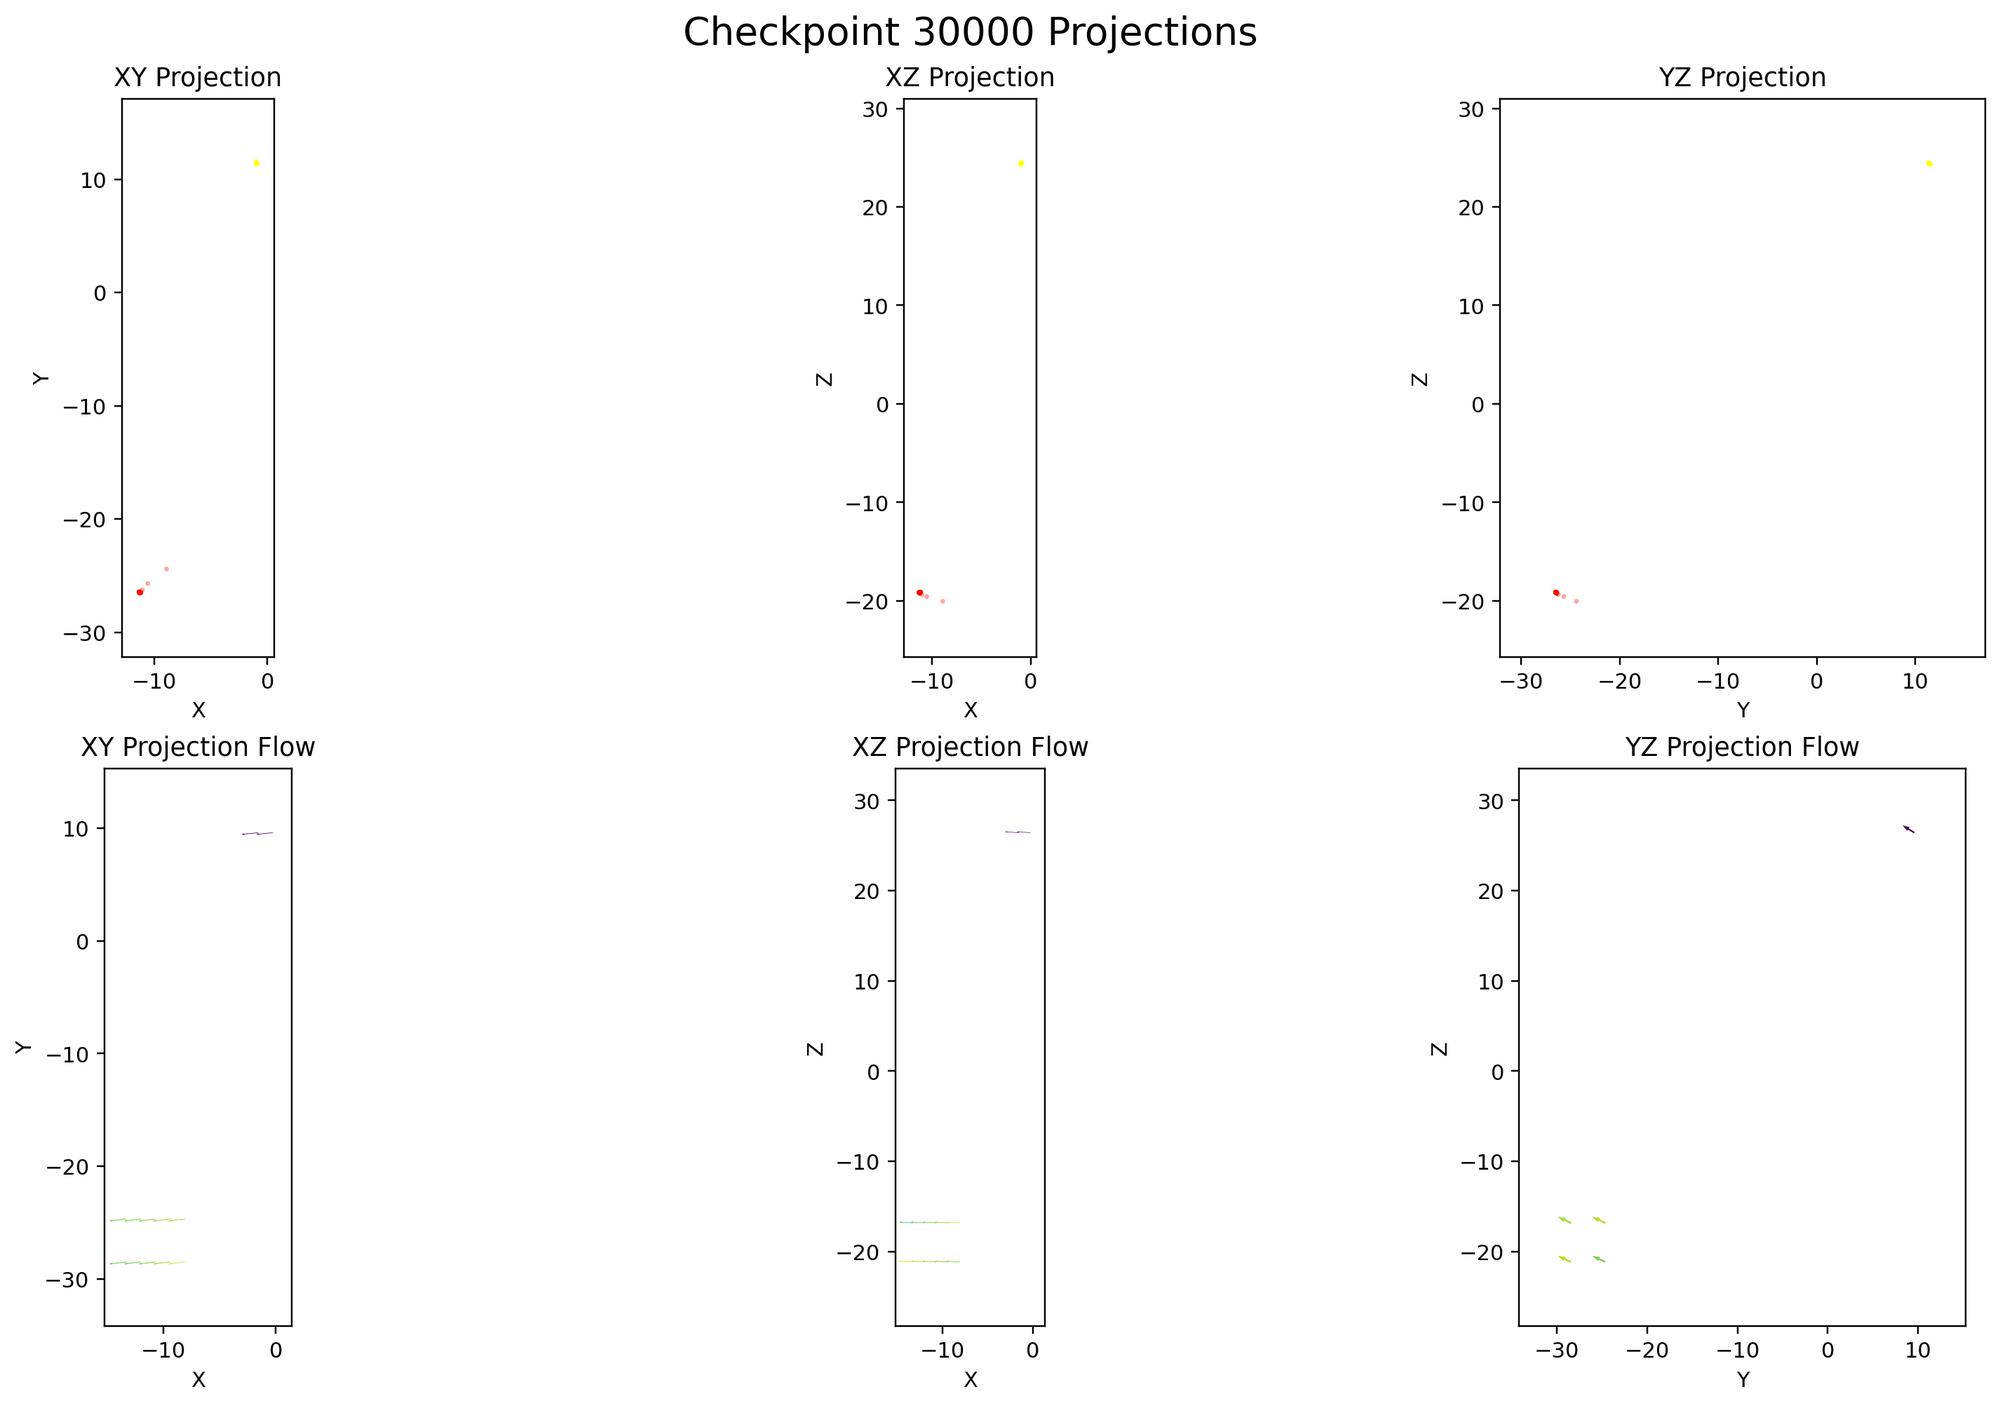
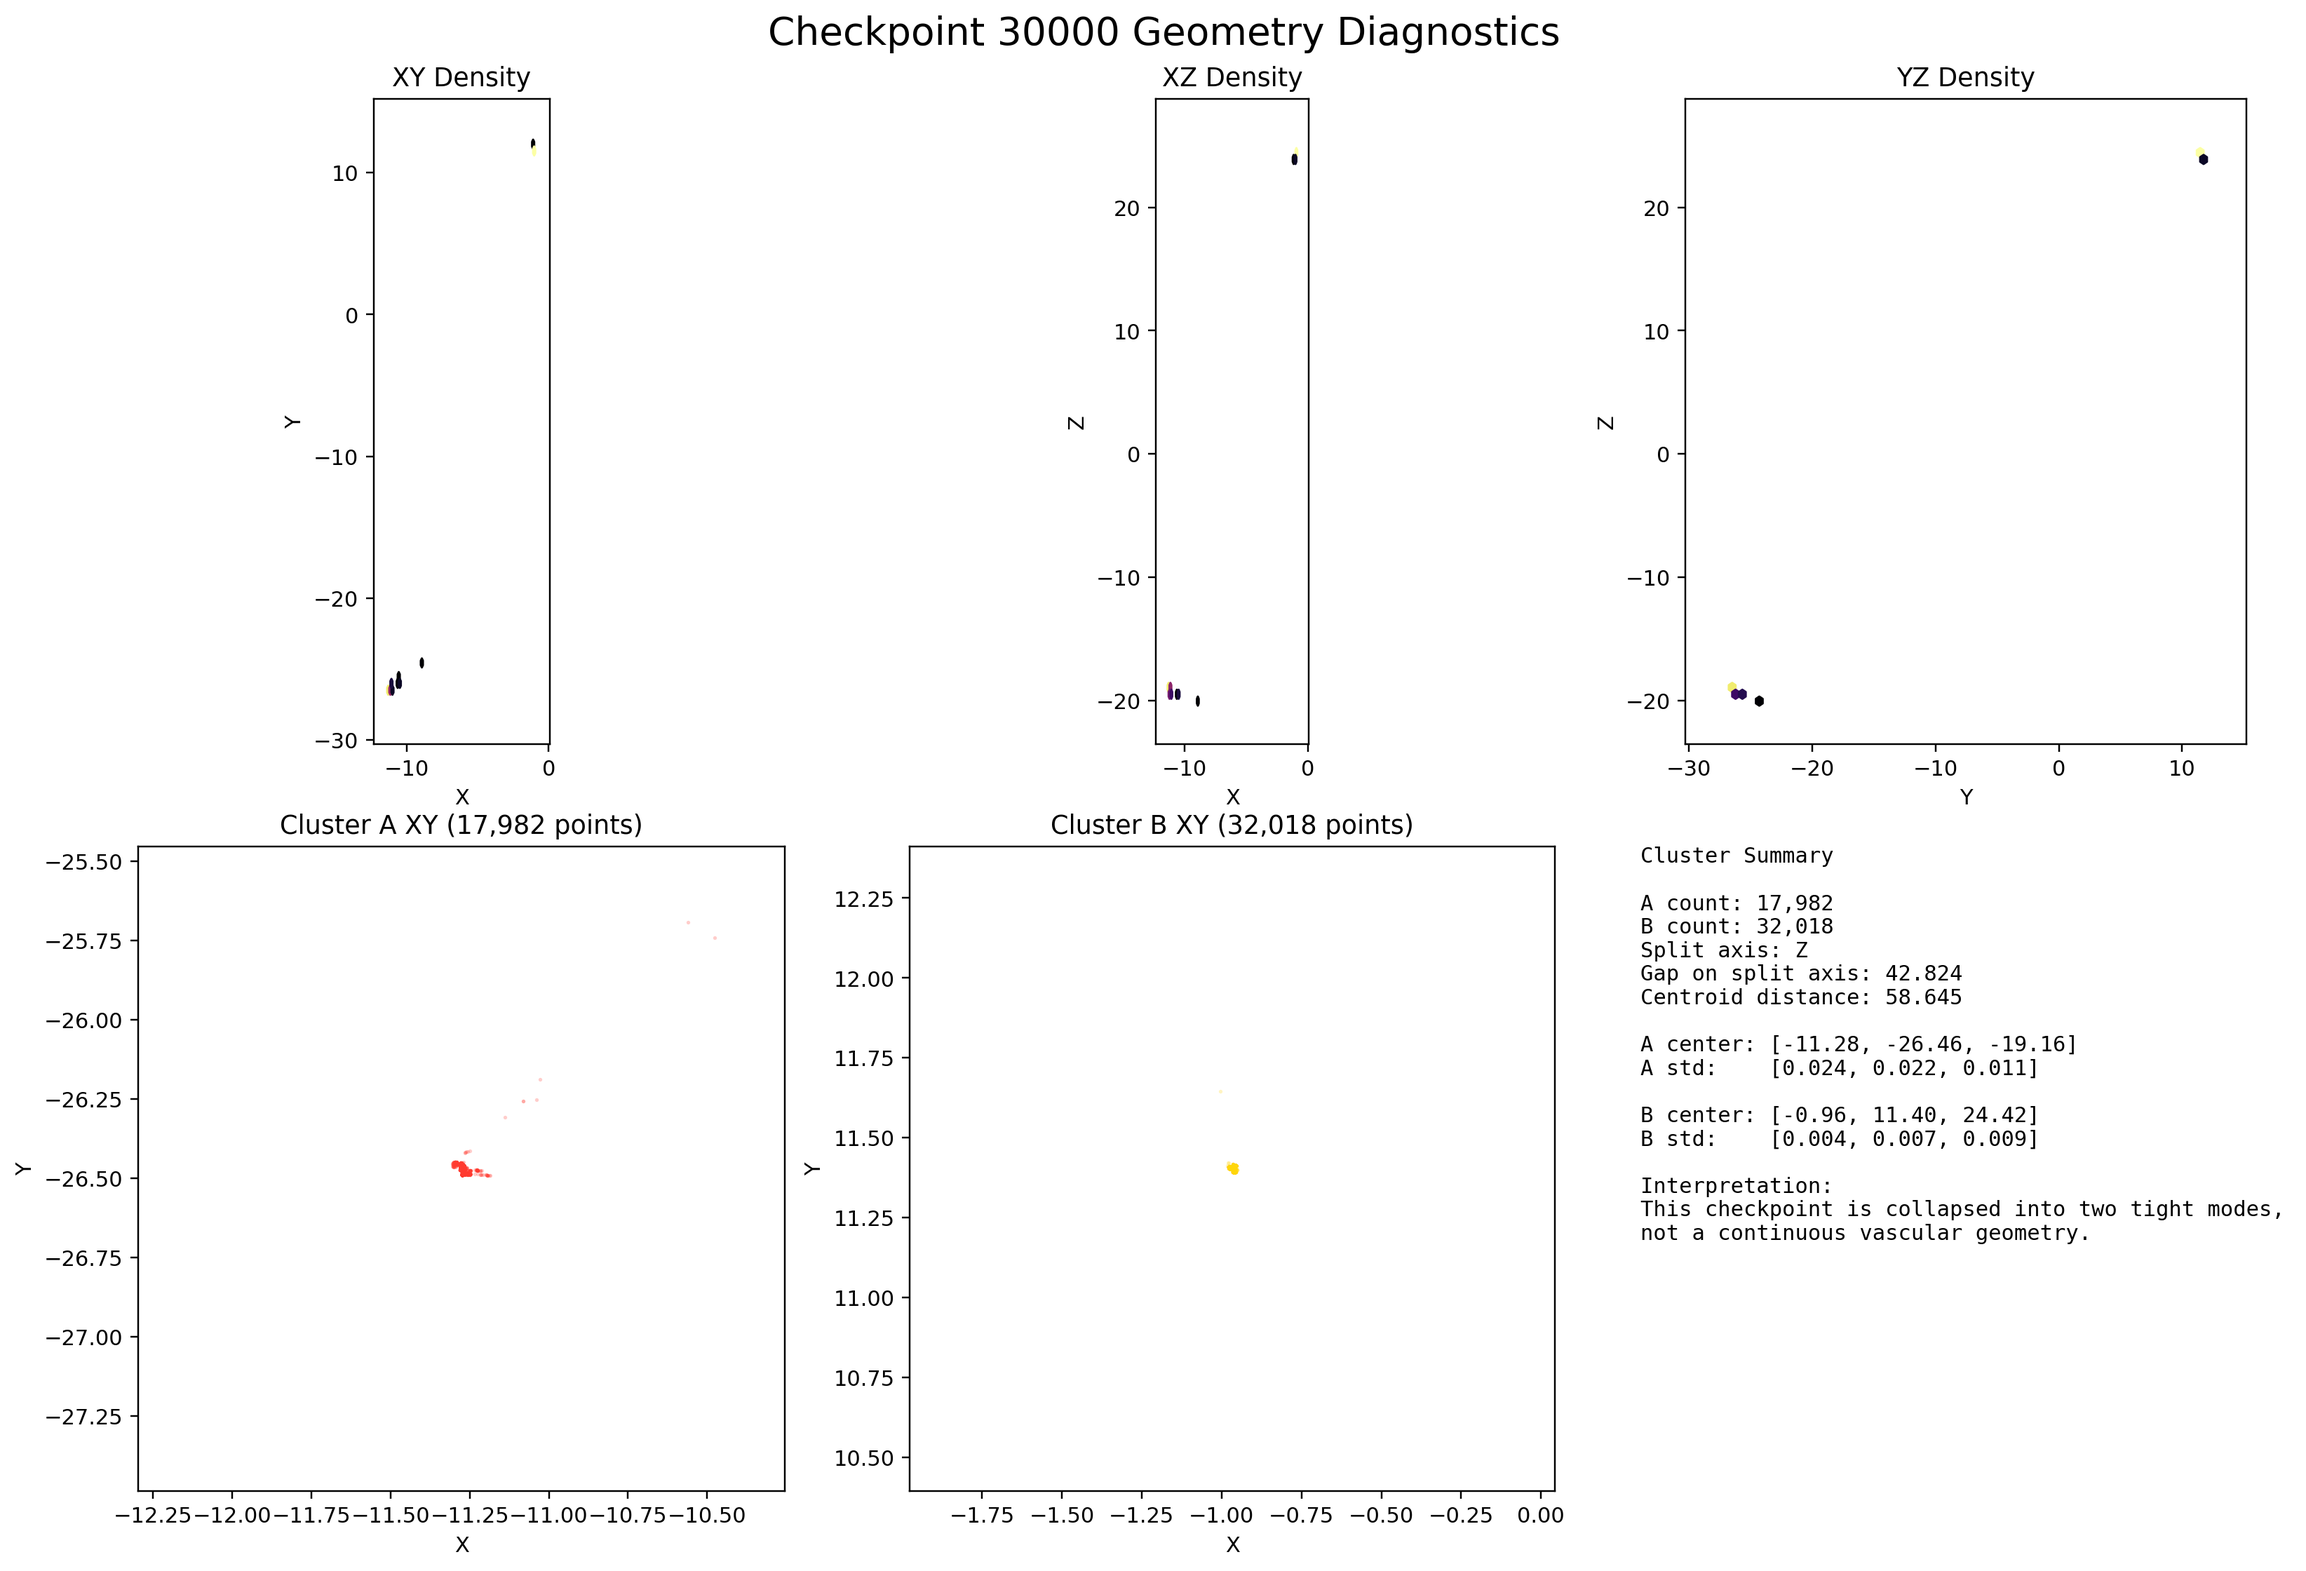
Turn visualization into geometry diagnostics

diff --git a/code/scripts/visualize_reconstruction.py b/code/scripts/visualize_reconstruction.py
@@ -1,4 +1,4 @@
-"""Visualization tools for vascular reconstruction with Ground Truth comparison."""
+"""Visualization tools for vascular reconstruction checkpoints."""
 
 from __future__ import annotations
 
@@ -14,17 +14,16 @@ import matplotlib.pyplot as plt
 import numpy as np
 import torch
 
-# Add src to path
 ROOT = Path(__file__).resolve().parents[1]
 sys.path.insert(0, str(ROOT / "src"))
 
 from vascular_reconstruction.config import ModelConfig
 from vascular_reconstruction.models.pinn_gs import PINN_GS
 
-PROJECTION_AXES = (
-    ("XY Projection", 0, 1, "X", "Y"),
-    ("XZ Projection", 0, 2, "X", "Z"),
-    ("YZ Projection", 1, 2, "Y", "Z"),
+PROJECTIONS = (
+    ("XY Density", 0, 1, "X", "Y"),
+    ("XZ Density", 0, 2, "X", "Z"),
+    ("YZ Density", 1, 2, "Y", "Z"),
 )
 
 
@@ -35,18 +34,22 @@ def _load_model_from_checkpoint(checkpoint_path: Path) -> tuple[dict[str, object
     saved_model_config = checkpoint.get("model_config")
     if saved_model_config is not None:
         model_config = ModelConfig.from_dict(saved_model_config)
-        num_gaussians = model_config.num_gaussians
         pinn_config = {
             "hidden_dim": model_config.pinn_hidden_dim,
             "num_layers": model_config.pinn_num_layers,
         }
-        sh_degree = model_config.sh_degree
+        model = PINN_GS(
+            num_gaussians=model_config.num_gaussians,
+            pinn_config=pinn_config,
+            sh_degree=model_config.sh_degree,
+        )
     else:
-        num_gaussians = state_dict["gs._xyz"].shape[0]
-        pinn_config = {"hidden_dim": 128, "num_layers": 4}
-        sh_degree = 3
+        model = PINN_GS(
+            num_gaussians=state_dict["gs._xyz"].shape[0],
+            pinn_config={"hidden_dim": 128, "num_layers": 4},
+            sh_degree=3,
+        )
 
-    model = PINN_GS(num_gaussians=num_gaussians, pinn_config=pinn_config, sh_degree=sh_degree)
     model.load_state_dict(state_dict)
     model.eval()
     return checkpoint, model
@@ -69,151 +72,106 @@ def _sample_points(points: np.ndarray, max_points: int, seed: int) -> np.ndarray
     if len(points) <= max_points:
         return points
     rng = np.random.default_rng(seed)
-    indices = rng.choice(len(points), size=max_points, replace=False)
-    return points[indices]
+    return points[rng.choice(len(points), size=max_points, replace=False)]
 
 
 def _robust_limits(points: np.ndarray, a_idx: int, b_idx: int) -> tuple[tuple[float, float], tuple[float, float]]:
-    a = points[:, a_idx]
-    b = points[:, b_idx]
-    a_low, a_high = np.percentile(a, [1, 99])
-    b_low, b_high = np.percentile(b, [1, 99])
-    a_margin = max((a_high - a_low) * 0.15, 1.0)
-    b_margin = max((b_high - b_low) * 0.15, 1.0)
+    a_low, a_high = np.percentile(points[:, a_idx], [1, 99])
+    b_low, b_high = np.percentile(points[:, b_idx], [1, 99])
+    a_margin = max((a_high - a_low) * 0.1, 1.0)
+    b_margin = max((b_high - b_low) * 0.1, 1.0)
     return (a_low - a_margin, a_high + a_margin), (b_low - b_margin, b_high + b_margin)
 
 
-def _flow_field_samples(xyz: np.ndarray) -> np.ndarray:
-    lower = np.percentile(xyz, 2, axis=0) - 2.0
-    upper = np.percentile(xyz, 98, axis=0) + 2.0
-    grid_axes = [np.linspace(lower[i], upper[i], 12) for i in range(3)]
-    xx, yy, zz = np.meshgrid(*grid_axes, indexing="ij")
-    coords = np.stack([xx, yy, zz], axis=-1).reshape(-1, 3)
-
-    sample_xyz = _sample_points(xyz, max_points=min(6000, len(xyz)), seed=1)
-    distances = np.sqrt(((coords[:, None, :] - sample_xyz[None, :, :]) ** 2).sum(axis=-1))
-    nearest = distances.min(axis=1)
-    return coords[nearest <= 4.0]
+def _split_clusters(xyz: np.ndarray) -> tuple[np.ndarray, np.ndarray, int, float]:
+    axis = int(np.argmax(np.std(xyz, axis=0)))
+    sorted_values = np.sort(xyz[:, axis])
+    gaps = np.diff(sorted_values)
+    split_idx = int(np.argmax(gaps))
+    split_gap = float(gaps[split_idx])
+    threshold = float((sorted_values[split_idx] + sorted_values[split_idx + 1]) / 2.0)
+    mask = xyz[:, axis] <= threshold
+    return mask, ~mask, axis, split_gap
 
 
-def _compute_flow(model: PINN_GS, xyz: np.ndarray) -> tuple[np.ndarray, np.ndarray]:
-    coords = _flow_field_samples(xyz)
-    if len(coords) == 0:
-        return coords, np.empty((0, 3), dtype=np.float32)
-
-    coords_torch = torch.from_numpy(coords).float()
-    t = torch.zeros((len(coords), 1), dtype=torch.float32)
-    with torch.no_grad():
-        flow = model.pinn(coords_torch[:, 0:1], coords_torch[:, 1:2], coords_torch[:, 2:3], t)[:, :3].numpy()
-
-    speed = np.linalg.norm(flow, axis=1)
-    keep = speed >= np.percentile(speed, 40)
-    return coords[keep], flow[keep]
+def _cluster_summary(points: np.ndarray) -> tuple[np.ndarray, np.ndarray]:
+    return points.mean(axis=0), points.std(axis=0)
 
 
-def _plot_geometry_projection(ax, xyz: np.ndarray, mesh_vertices: np.ndarray | None, title: str, a_idx: int, b_idx: int, a_label: str, b_label: str) -> None:
-    sampled_xyz = _sample_points(xyz, max_points=20000, seed=0)
-    axis_limits = _robust_limits(sampled_xyz, a_idx, b_idx)
-
-    ax.scatter(
-        sampled_xyz[:, a_idx],
-        sampled_xyz[:, b_idx],
-        c=sampled_xyz[:, 2],
-        cmap="autumn",
-        s=5,
-        alpha=0.35,
-        linewidths=0,
-    )
+def _plot_density(ax, points: np.ndarray, mesh_vertices: np.ndarray | None, title: str, a_idx: int, b_idx: int, a_label: str, b_label: str) -> None:
+    limits = _robust_limits(points, a_idx, b_idx)
+    ax.hexbin(points[:, a_idx], points[:, b_idx], gridsize=70, bins="log", cmap="inferno", mincnt=1)
     if mesh_vertices is not None:
-        sampled_mesh = _sample_points(mesh_vertices, max_points=12000, seed=2)
-        ax.scatter(
-            sampled_mesh[:, a_idx],
-            sampled_mesh[:, b_idx],
-            c="#4c6ef5",
-            s=1,
-            alpha=0.08,
-            linewidths=0,
-        )
-
+        mesh_sample = _sample_points(mesh_vertices, max_points=10000, seed=3)
+        ax.scatter(mesh_sample[:, a_idx], mesh_sample[:, b_idx], s=0.2, c="#4c6ef5", alpha=0.06, linewidths=0)
     ax.set_title(title)
     ax.set_xlabel(a_label)
     ax.set_ylabel(b_label)
-    ax.set_xlim(axis_limits[0])
-    ax.set_ylim(axis_limits[1])
+    ax.set_xlim(limits[0])
+    ax.set_ylim(limits[1])
     ax.set_aspect("equal", adjustable="box")
     ax.grid(False)
 
 
-def _plot_flow_projection(ax, coords: np.ndarray, flow: np.ndarray, title: str, a_idx: int, b_idx: int, a_label: str, b_label: str) -> None:
-    if len(coords) == 0:
-        ax.set_title(f"{title}\n(no valid samples)")
-        ax.set_xlabel(a_label)
-        ax.set_ylabel(b_label)
-        return
-
-    speed = np.linalg.norm(flow, axis=1)
-    norm = np.linalg.norm(flow[:, [a_idx, b_idx]], axis=1, keepdims=True)
-    direction = flow[:, [a_idx, b_idx]] / np.clip(norm, 1e-6, None)
-    display_flow = direction * 1.5
-    colors = plt.cm.viridis((speed - speed.min()) / max(float(np.ptp(speed)), 1e-6))
-
-    ax.quiver(
-        coords[:, a_idx],
-        coords[:, b_idx],
-        display_flow[:, 0],
-        display_flow[:, 1],
-        angles="xy",
-        scale_units="xy",
-        scale=1.0,
-        color=colors,
-        width=0.003,
-    )
-
-    axis_limits = _robust_limits(coords, a_idx, b_idx)
+def _plot_cluster(ax, points: np.ndarray, title: str, color: str) -> None:
+    pts = _sample_points(points, max_points=12000, seed=4)
+    limits = _robust_limits(pts, 0, 1)
+    ax.scatter(pts[:, 0], pts[:, 1], s=3, c=color, alpha=0.25, linewidths=0)
     ax.set_title(title)
-    ax.set_xlabel(a_label)
-    ax.set_ylabel(b_label)
-    ax.set_xlim(axis_limits[0])
-    ax.set_ylim(axis_limits[1])
+    ax.set_xlabel("X")
+    ax.set_ylabel("Y")
+    ax.set_xlim(limits[0])
+    ax.set_ylim(limits[1])
     ax.set_aspect("equal", adjustable="box")
     ax.grid(False)
+
+
+def _plot_summary(ax, cluster_a: np.ndarray, cluster_b: np.ndarray, axis: int, split_gap: float) -> None:
+    center_a, std_a = _cluster_summary(cluster_a)
+    center_b, std_b = _cluster_summary(cluster_b)
+    separation = float(np.linalg.norm(center_a - center_b))
+    lines = [
+        "Cluster Summary",
+        "",
+        f"A count: {len(cluster_a):,}",
+        f"B count: {len(cluster_b):,}",
+        f"Split axis: {'XYZ'[axis]}",
+        f"Gap on split axis: {split_gap:.3f}",
+        f"Centroid distance: {separation:.3f}",
+        "",
+        f"A center: [{center_a[0]:.2f}, {center_a[1]:.2f}, {center_a[2]:.2f}]",
+        f"A std:    [{std_a[0]:.3f}, {std_a[1]:.3f}, {std_a[2]:.3f}]",
+        "",
+        f"B center: [{center_b[0]:.2f}, {center_b[1]:.2f}, {center_b[2]:.2f}]",
+        f"B std:    [{std_b[0]:.3f}, {std_b[1]:.3f}, {std_b[2]:.3f}]",
+        "",
+        "Interpretation:",
+        "This checkpoint is collapsed into two tight modes,",
+        "not a continuous vascular geometry.",
+    ]
+    ax.axis("off")
+    ax.text(0.0, 1.0, "\n".join(lines), va="top", ha="left", family="monospace", fontsize=10)
 
 
 def visualize_checkpoint(checkpoint_path: Path, output_dir: Path, mesh_path: Path | None = None) -> None:
-    """Load a checkpoint and visualize geometry and flow in orthographic projections."""
     output_dir.mkdir(parents=True, exist_ok=True)
     checkpoint, model = _load_model_from_checkpoint(checkpoint_path)
-    xyz = model.gs.get_xyz.detach().numpy()
+    xyz = model.gs.get_xyz.detach().cpu().numpy()
     mesh_vertices = _prepare_mesh_vertices(mesh_path)
-    flow_coords, flow_vectors = _compute_flow(model, xyz)
+    cluster_a_mask, cluster_b_mask, axis, split_gap = _split_clusters(xyz)
+    cluster_a = xyz[cluster_a_mask]
+    cluster_b = xyz[cluster_b_mask]
 
-    fig, axes = plt.subplots(2, 3, figsize=(15, 9), constrained_layout=True)
-    fig.suptitle(f"Checkpoint {checkpoint['iteration']} Projections", fontsize=18)
+    fig, axes = plt.subplots(2, 3, figsize=(15, 10), constrained_layout=True)
+    fig.suptitle(f"Checkpoint {checkpoint['iteration']} Geometry Diagnostics", fontsize=18)
 
-    for column, (title, a_idx, b_idx, a_label, b_label) in enumerate(PROJECTION_AXES):
-        geometry_title = title
-        if mesh_vertices is not None and column == 0:
-            geometry_title = f"{title} (blue = GT)"
-        _plot_geometry_projection(
-            axes[0, column],
-            xyz,
-            mesh_vertices,
-            geometry_title,
-            a_idx,
-            b_idx,
-            a_label,
-            b_label,
-        )
-        _plot_flow_projection(
-            axes[1, column],
-            flow_coords,
-            flow_vectors,
-            f"{title} Flow",
-            a_idx,
-            b_idx,
-            a_label,
-            b_label,
-        )
+    for col, (title, a_idx, b_idx, a_label, b_label) in enumerate(PROJECTIONS):
+        panel_title = title if mesh_vertices is None else f"{title} (blue = GT)"
+        _plot_density(axes[0, col], xyz, mesh_vertices, panel_title, a_idx, b_idx, a_label, b_label)
+
+    _plot_cluster(axes[1, 0], cluster_a, f"Cluster A XY ({len(cluster_a):,} points)", "#ff3b30")
+    _plot_cluster(axes[1, 1], cluster_b, f"Cluster B XY ({len(cluster_b):,} points)", "#ffd60a")
+    _plot_summary(axes[1, 2], cluster_a, cluster_b, axis, split_gap)
 
     output_path = output_dir / f"reconstruction_comparison_iter_{checkpoint['iteration']}.png"
     fig.savefig(output_path, dpi=220, bbox_inches="tight")
@@ -222,12 +180,11 @@ def visualize_checkpoint(checkpoint_path: Path, output_dir: Path, mesh_path: Pat
 
 
 def main() -> None:
-    parser = argparse.ArgumentParser(description="Visualize reconstruction checkpoints with GT mesh.")
+    parser = argparse.ArgumentParser(description="Visualize reconstruction checkpoints.")
     parser.add_argument("--checkpoint", type=Path, required=True, help="Path to .pt checkpoint.")
     parser.add_argument("--mesh", type=Path, help="Path to ground truth STL mesh.")
     parser.add_argument("--output-dir", type=Path, default=Path("visualization"), help="Output directory.")
     args = parser.parse_args()
-
     visualize_checkpoint(args.checkpoint, args.output_dir, args.mesh)
 
 
